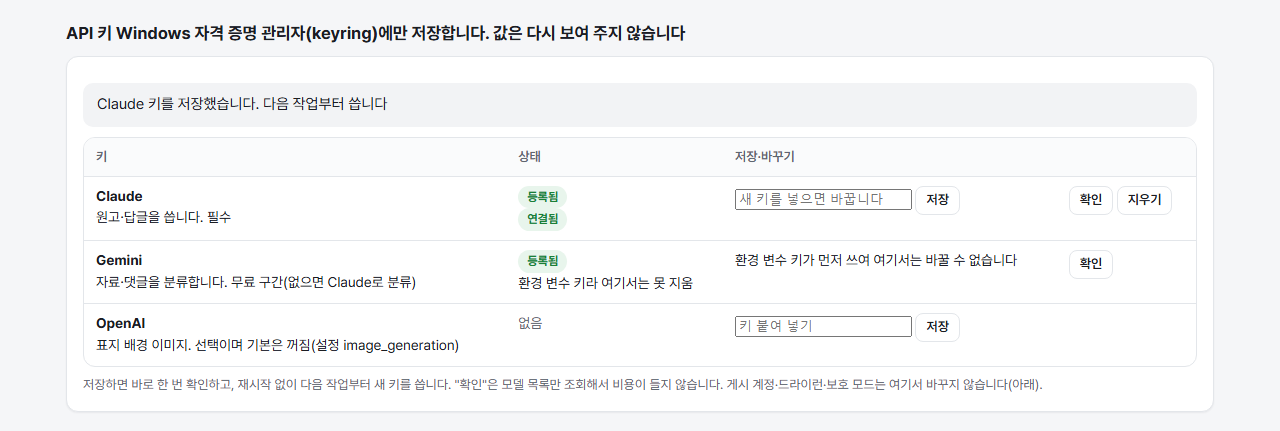
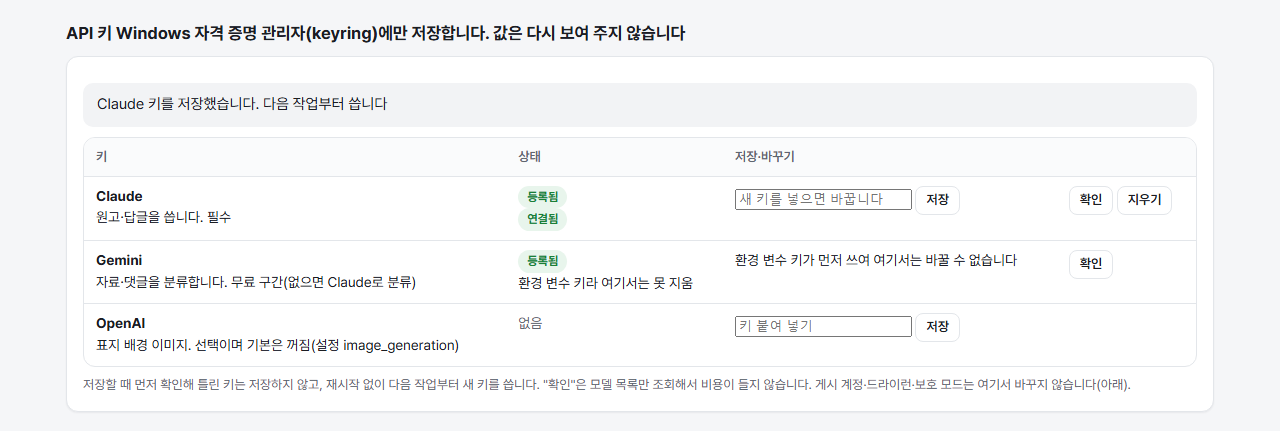
fix(app): describe pre-save key check on the settings page

Changed region(s): [[0.0625, 0.8747, 0.9062, 0.9049]]

diff --git a/nsm/app/templates/settings.html b/nsm/app/templates/settings.html
@@ -187,7 +187,7 @@
     </tr>
     {% endfor %}
   </table></div>
-  <p class="muted small" style="margin-bottom:0">저장하면 바로 한 번 확인하고, 재시작 없이 다음 작업부터 새 키를 씁니다. "확인"은 모델 목록만 조회해서 비용이 들지 않습니다. 게시 계정·드라이런·보호 모드는 여기서 바꾸지 않습니다(아래).</p>
+  <p class="muted small" style="margin-bottom:0">저장할 때 먼저 확인해 틀린 키는 저장하지 않고, 재시작 없이 다음 작업부터 새 키를 씁니다. "확인"은 모델 목록만 조회해서 비용이 들지 않습니다. 게시 계정·드라이런·보호 모드는 여기서 바꾸지 않습니다(아래).</p>
 </div>
 {% endif %}
 
